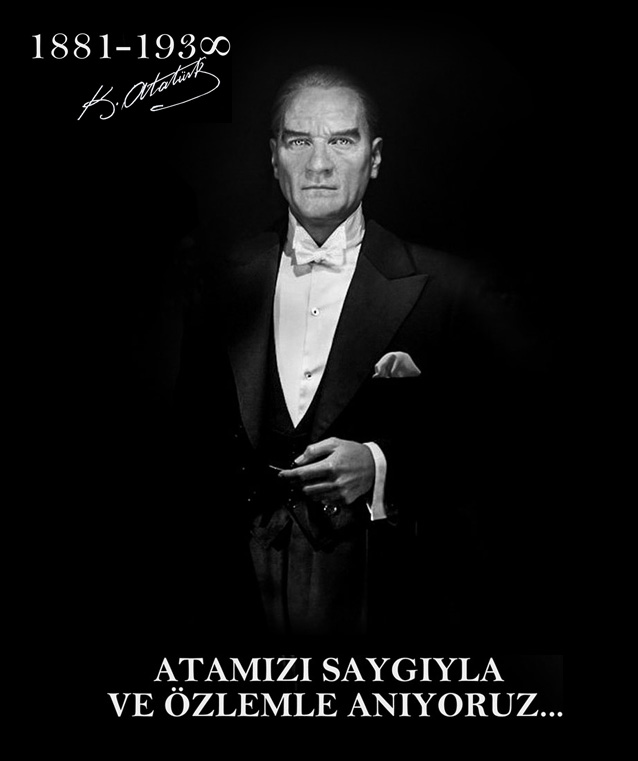
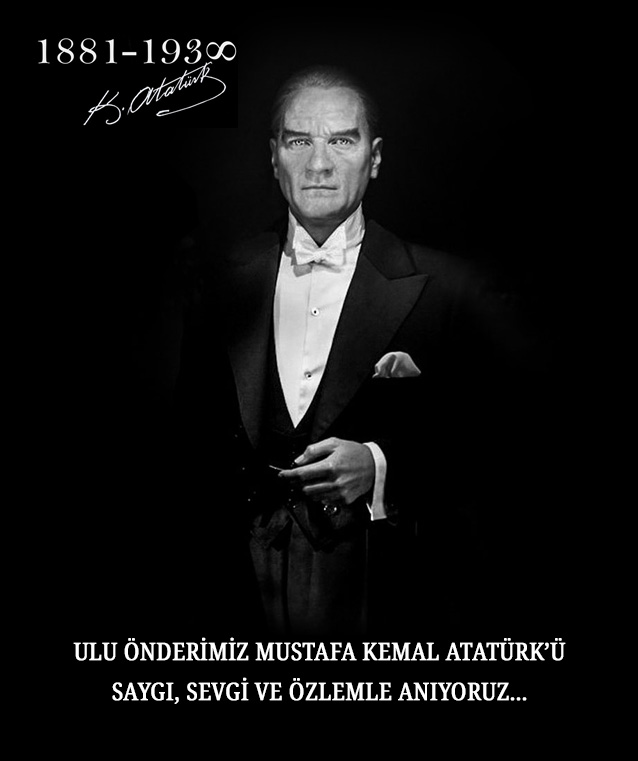
10 Kasım modal ekle

Changed region(s): [[0.1191, 0.816, 0.8934, 0.9671], [0.0596, 0.0302, 0.3871, 0.1813]]

diff --git a/out/index.html b/out/index.html
@@ -867,7 +867,24 @@
 				</div>
 			</section>
 			<!-- section end -->
-
+			<div class="modal fade" id="10KasimModal" tabindex="-1" role="dialog" aria-labelledby="myLargeModalLabel" aria-hidden="true">
+				<div class="modal-dialog modal-lg">
+					<div class="modal-content modal-18mart">
+						<div class="modal-header">
+							<button type="button" class="close" data-dismiss="modal"><span aria-hidden="true">&times;</span><span class="sr-only">Kapat</span></button>
+							<h4 class="modal-title hidden-xs" id="myLargeModalLabel">Sevgi, Saygı ve Özlemle Anıyoruz!</h4>
+							<h4 class="modal-title visible-xs" id="myLargeModalLabel">Sevgi, Saygı ve Özlemle Anıyoruz!</h4>
+						</div>
+						<div class="modal-body">
+							<img class="hidden-xs hidden-sm" src="images/10kasim-banner.jpg">
+							<img class="visible-xs visible-sm" src="images/10kasim-banner-mobile.jpg">
+						</div>
+						<div class="modal-footer">
+							<button type="button" class="btn btn-sm btn-danger" data-dismiss="modal">Kapat</button>
+						</div>
+					</div>
+				</div>
+			</div>
 			<section class="section default-bg pv-30 clearfix">
 					<div class="container">
 						<div class="row">
@@ -969,6 +986,12 @@
 	<!-- jQuery Revolution Slider  -->
 	<script type="text/javascript" src="plugins/rs-plugin/js/jquery.themepunch.tools.min.js"></script>
 	<script type="text/javascript" src="plugins/rs-plugin/js/jquery.themepunch.revolution.min.js"></script>
+	<script type="text/javascript">
+		$(window).load(function()
+		{
+		    $('#10KasimModal').modal('show');
+		});
+	</script>
 
 	<!-- Initialization of Plugins -->
 	<script type="text/javascript" src="js/compecta.min.js"></script>

diff --git a/site/index.html b/site/index.html
@@ -595,7 +595,24 @@
 				</div>
 			</section>
 			<!-- section end -->
-
+			<div class="modal fade" id="10KasimModal" tabindex="-1" role="dialog" aria-labelledby="myLargeModalLabel" aria-hidden="true">
+				<div class="modal-dialog modal-lg">
+					<div class="modal-content modal-18mart">
+						<div class="modal-header">
+							<button type="button" class="close" data-dismiss="modal"><span aria-hidden="true">&times;</span><span class="sr-only">Kapat</span></button>
+							<h4 class="modal-title hidden-xs" id="myLargeModalLabel">Sevgi, Saygı ve Özlemle Anıyoruz!</h4>
+							<h4 class="modal-title visible-xs" id="myLargeModalLabel">Sevgi, Saygı ve Özlemle Anıyoruz!</h4>
+						</div>
+						<div class="modal-body">
+							<img class="hidden-xs hidden-sm" src="images/10kasim-banner.jpg">
+							<img class="visible-xs visible-sm" src="images/10kasim-banner-mobile.jpg">
+						</div>
+						<div class="modal-footer">
+							<button type="button" class="btn btn-sm btn-danger" data-dismiss="modal">Kapat</button>
+						</div>
+					</div>
+				</div>
+			</div>
 			{% include "getinfo.html" %}
 {% endblock %}
 {% block extrajs %}
@@ -604,4 +621,10 @@
 	<!-- jQuery Revolution Slider  -->
 	<script type="text/javascript" src="plugins/rs-plugin/js/jquery.themepunch.tools.min.js"></script>
 	<script type="text/javascript" src="plugins/rs-plugin/js/jquery.themepunch.revolution.min.js"></script>
+	<script type="text/javascript">
+		$(window).load(function()
+		{
+		    $('#10KasimModal').modal('show');
+		});
+	</script>
 {% endblock %}
